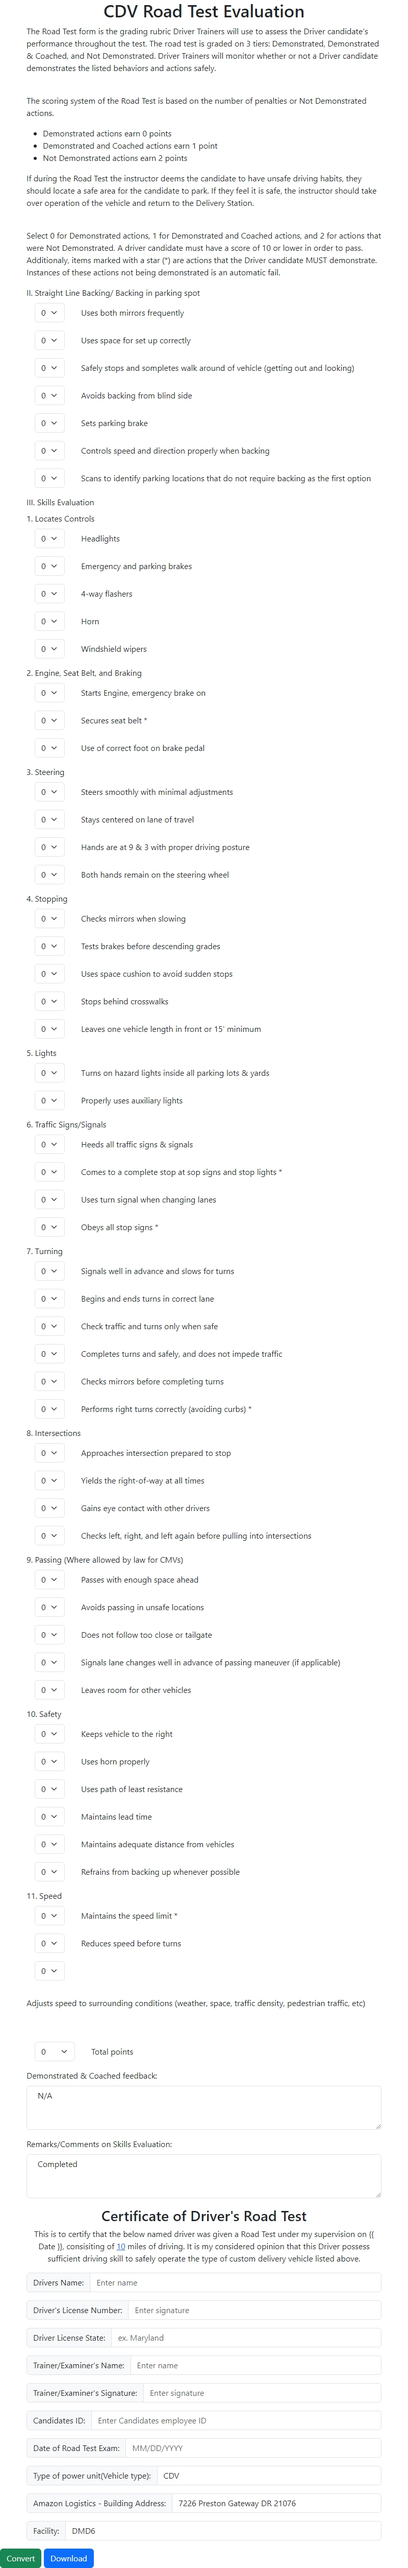
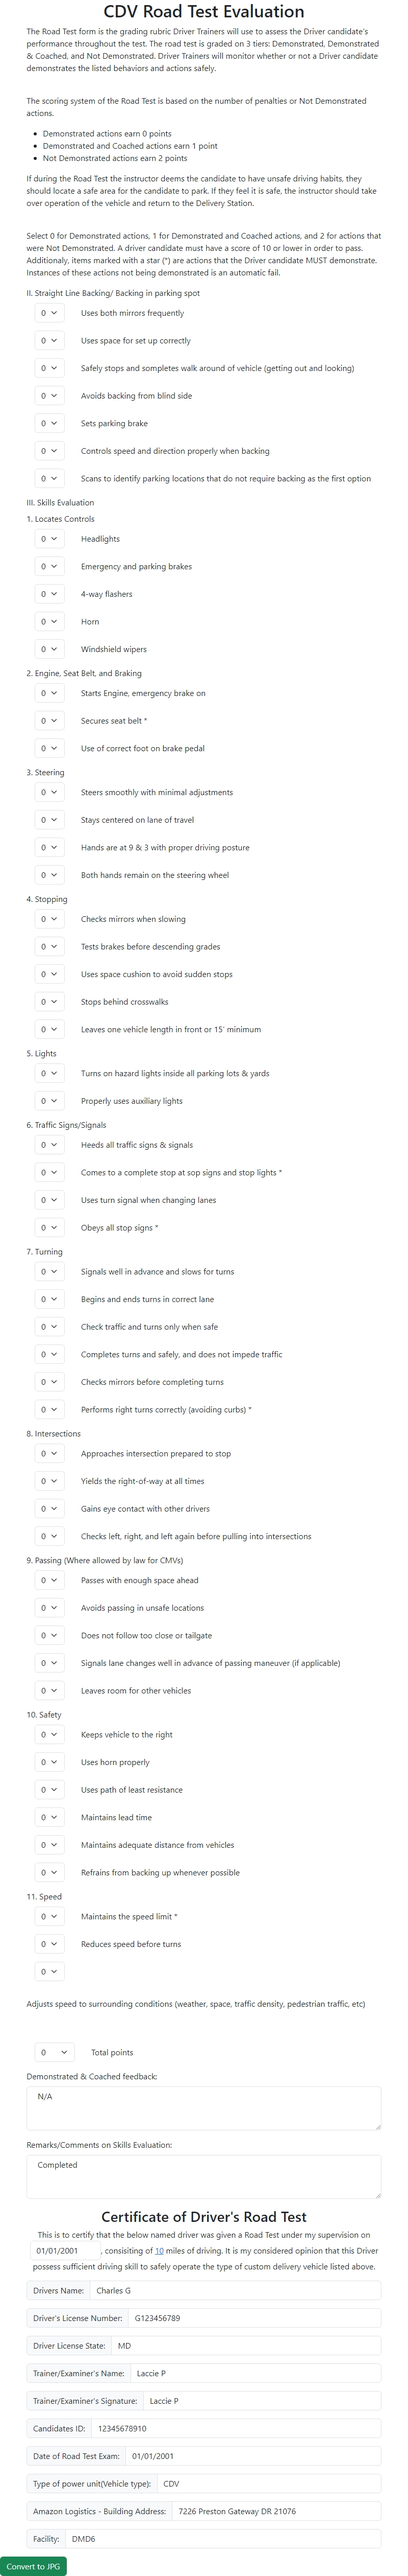
Feature complete

diff --git a/index.html b/index.html
@@ -13,7 +13,6 @@
     <link rel="stylesheet" type="text/css" href="index.css" />
   </head>
   <body>
-    HELLO WORLD
     <!-- CDV Road Test Evaluation Description Component -->
     <div class="container">
       <center><h1>CDV Road Test Evaluation</h1></center>
@@ -937,7 +936,17 @@
         <h2>Certificate of Driver's Road Test</h2>
         <p class="muted">
           This is to certify that the below named driver was given a Road Test
-          under my supervision on {{ Date }}, consisiting of
+          under my supervision on
+          <span style="display: inline-block; width: 20%">
+            <input
+              type="text"
+              class="form-control"
+              placeholder="Enter Date MM/DD/YY"
+              aria-label="Enter Date"
+              aria-describedby="basic-addon1"
+              id="date1"
+            /> </span
+          >, consisiting of
           <a href="#" data-bs-toggle="tooltip" data-bs-title="10">10</a>
           miles of driving. It is my considered opinion that this Driver possess
           sufficient driving skill to safely operate the type of custom delivery
@@ -955,6 +964,7 @@
           placeholder="Enter name"
           aria-label="Name"
           aria-describedby="basic-addon1"
+          id="driverName"
         />
       </div>
       <div class="input-group mb-3">
@@ -967,6 +977,7 @@
           placeholder="Enter signature"
           aria-label="Signature"
           aria-describedby="basic-addon1"
+          id="driverLicenseNumber"
         />
       </div>
       <div class="input-group mb-3">
@@ -979,6 +990,7 @@
           placeholder="ex. Maryland"
           aria-label="License State"
           aria-describedby="basic-addon1"
+          id="driverLicenseState"
         />
       </div>
       <!-- Trainers Data Component -->
@@ -992,6 +1004,7 @@
           placeholder="Enter name"
           aria-label="Name"
           aria-describedby="basic-addon1"
+          id="driverTrainerName"
         />
       </div>
       <div class="input-group mb-3">
@@ -1004,6 +1017,7 @@
           placeholder="Enter signature"
           aria-label="Signature"
           aria-describedby="basic-addon1"
+          id="driverTrainerSignature"
         />
       </div>
       <div class="input-group mb-3">
@@ -1014,6 +1028,7 @@
           placeholder="Enter Candidates employee ID"
           aria-label="Candidates ID"
           aria-describedby="basic-addon1"
+          id="candidateId"
         />
       </div>
       <div class="input-group mb-3">
@@ -1026,6 +1041,7 @@
           placeholder="MM/DD/YYYY "
           aria-label="Date"
           aria-describedby="basic-addon1"
+          id="date2"
         />
       </div>
       <div class="input-group mb-3">
@@ -1108,13 +1124,31 @@
           try {
             console.log("Convert clicked");
 
+            // Create an object to store input field values
+            const inputFieldValues = {
+              date1: document.getElementById("date1").value,
+              driverName: document.getElementById("driverName").value,
+              driverLicenseNumber: document.getElementById(
+                "driverLicenseNumber"
+              ).value,
+              driverLicenseState:
+                document.getElementById("driverLicenseState").value,
+              driverTrainerName:
+                document.getElementById("driverTrainerName").value,
+              driverTrainerSignature: document.getElementById(
+                "driverTrainerSignature"
+              ).value,
+              candidateId: document.getElementById("candidateId").value,
+              date2: document.getElementById("date2").value,
+            };
+
             // Send the checkbox states to the server
             const response = await fetch("/convert", {
               method: "POST",
               headers: {
                 "Content-Type": "application/json",
               },
-              body: JSON.stringify({ checkbox2: true }),
+              body: JSON.stringify({ inputFieldValues }),
             });
 
             if (response.ok) {

diff --git a/server.js b/server.js
@@ -18,8 +18,8 @@ app.post("/convert", async (req, res) => {
     console.log("Convert request received");
 
     // Get the checkbox states from the request
-    const { checkboxStates } = req.body;
-    console.log(checkboxStates);
+    const { inputFieldValues } = req.body;
+    console.log(inputFieldValues);
 
     // Launch Puppeteer
     // Configure Puppeteer to use the installed Chrome binary
@@ -33,19 +33,19 @@ app.post("/convert", async (req, res) => {
       waitUntil: "networkidle2",
     });
 
-    // Update checkbox states based on the request data
-    for (const checkboxId in checkboxStates) {
-      if (checkboxStates.hasOwnProperty(checkboxId)) {
-        const isChecked = checkboxStates[checkboxId];
+    // Update input field values based on the request data
+    for (const inputFieldId in inputFieldValues) {
+      if (inputFieldValues.hasOwnProperty(inputFieldId)) {
+        const inputValue = inputFieldValues[inputFieldId];
         await page.evaluate(
-          (id, checked) => {
-            const checkbox = document.getElementById(id);
-            if (checkbox) {
-              checkbox.checked = checked;
+          (id, value) => {
+            const inputField = document.getElementById(id);
+            if (inputField) {
+              inputField.value = value;
             }
           },
-          checkboxId,
-          isChecked
+          inputFieldId,
+          inputValue
         );
       }
     }
